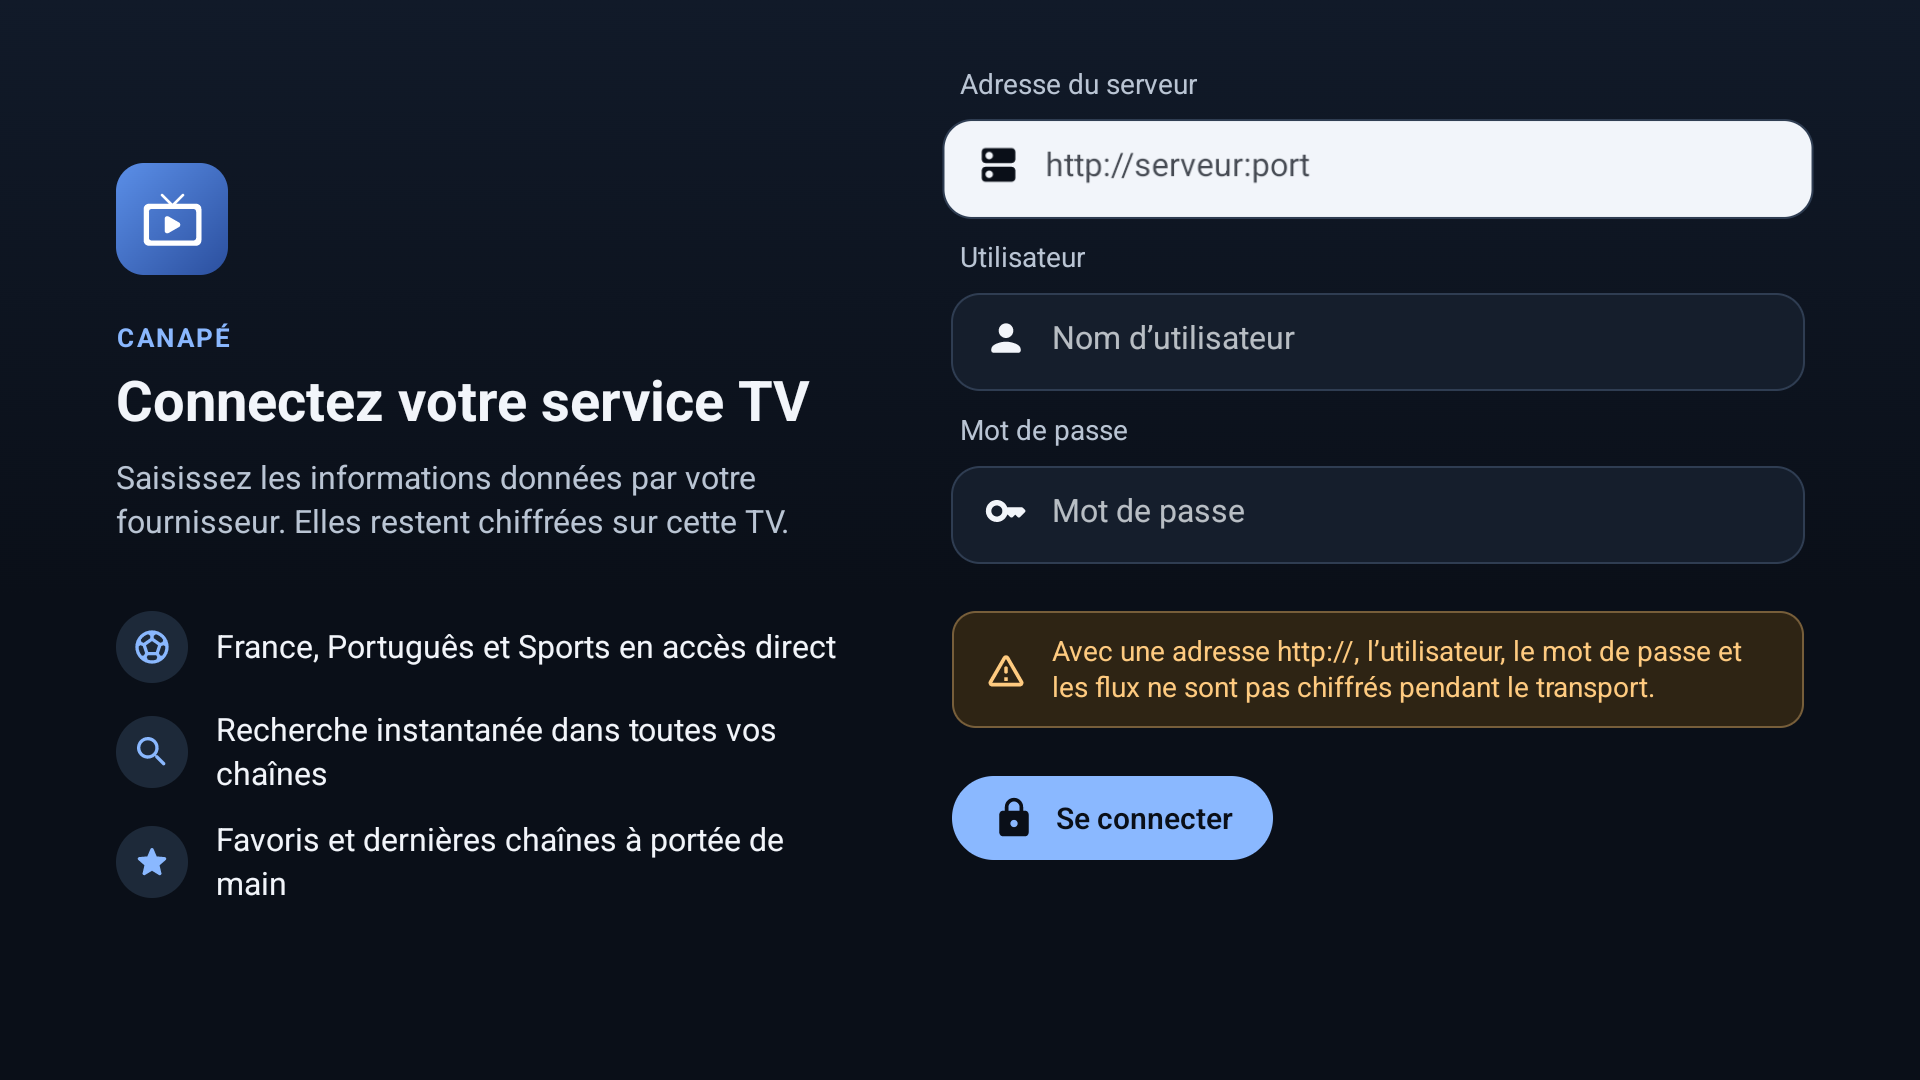
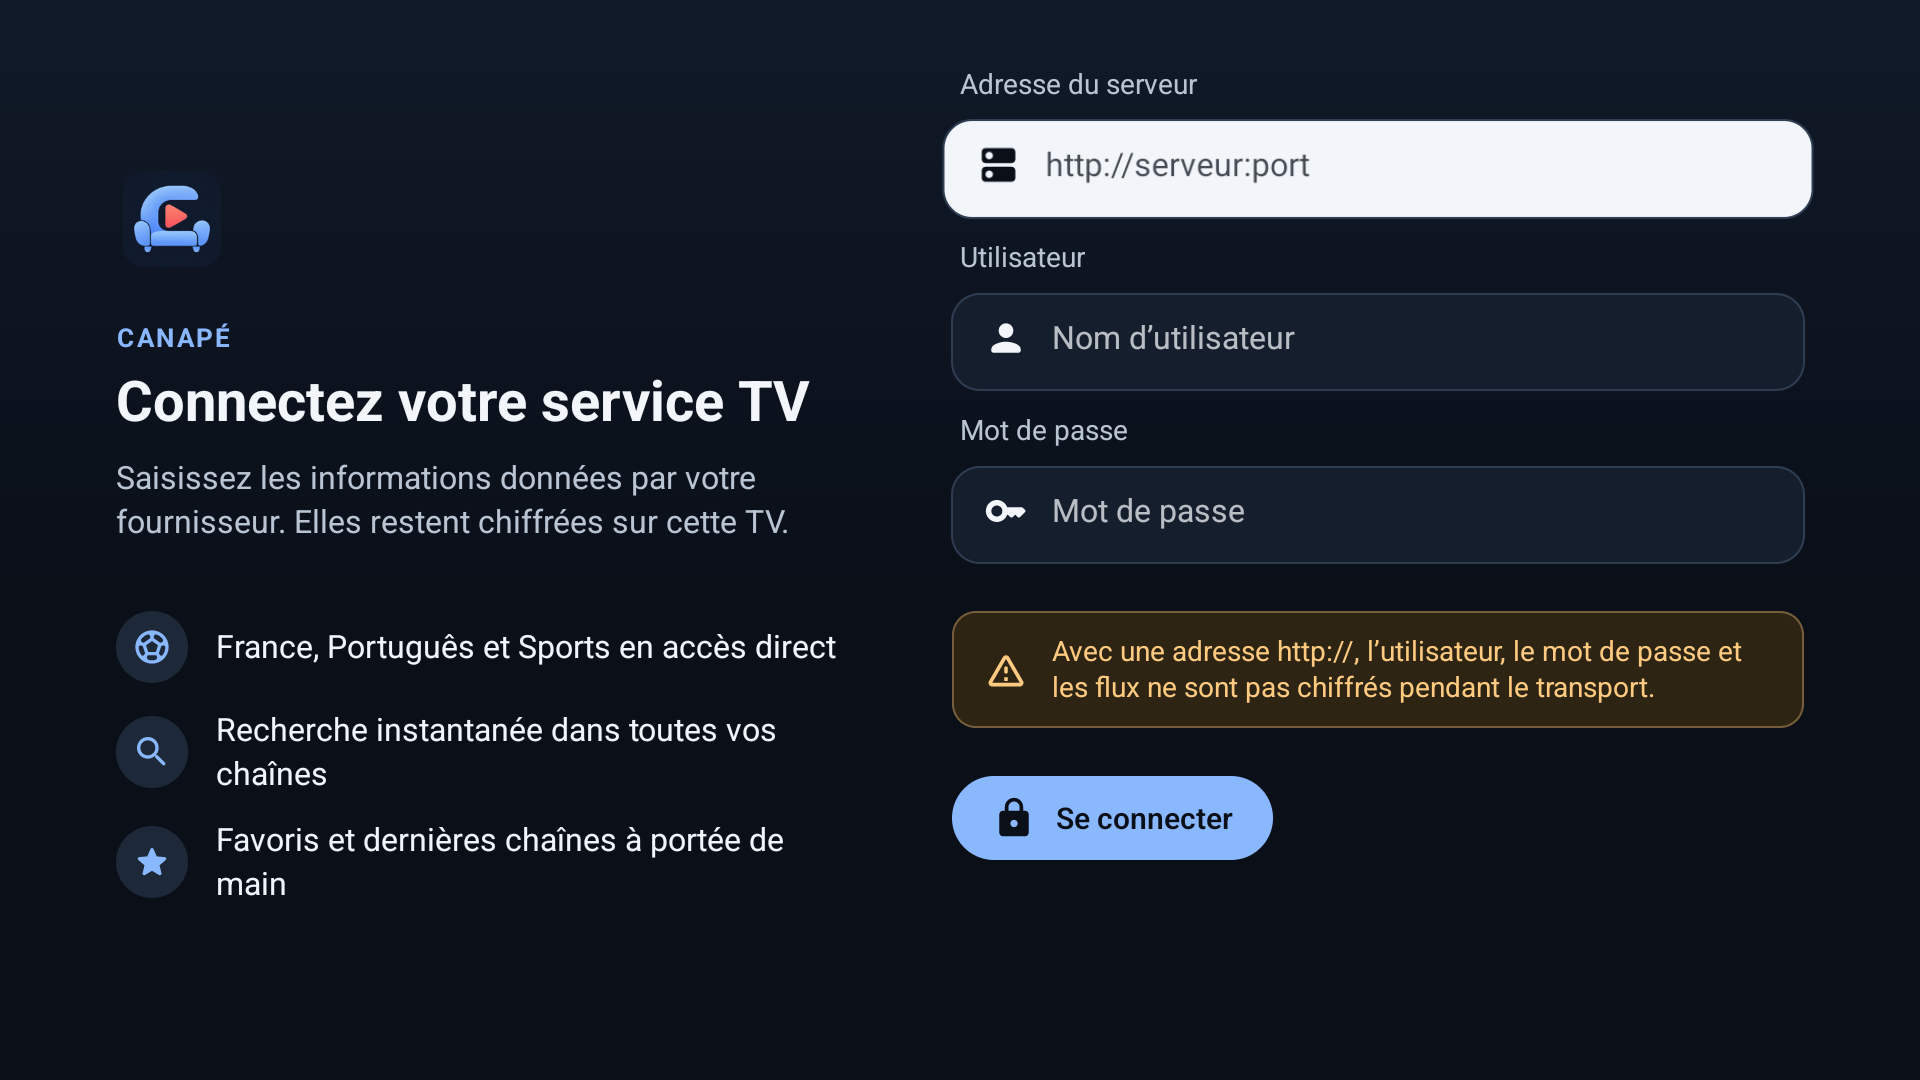
Use selected sofa artwork for Canapé app branding

Changed region(s): [[0.0625, 0.1528, 0.125, 0.275]]

diff --git a/app/src/main/java/fr/channelfinder/tv/StartupScreens.kt b/app/src/main/java/fr/channelfinder/tv/StartupScreens.kt
@@ -8,6 +8,7 @@ import androidx.compose.animation.core.infiniteRepeatable
 import androidx.compose.animation.core.rememberInfiniteTransition
 import androidx.compose.animation.core.tween
 import androidx.compose.foundation.background
+import androidx.compose.foundation.Image
 import androidx.compose.foundation.border
 import androidx.compose.foundation.rememberScrollState
 import androidx.compose.foundation.verticalScroll
@@ -35,7 +36,6 @@ import androidx.compose.material.icons.rounded.Dns
 import androidx.compose.material.icons.rounded.ErrorOutline
 import androidx.compose.material.icons.rounded.History
 import androidx.compose.material.icons.rounded.Key
-import androidx.compose.material.icons.rounded.LiveTv
 import androidx.compose.material.icons.rounded.Lock
 import androidx.compose.material.icons.rounded.ManageAccounts
 import androidx.compose.material.icons.rounded.Person
@@ -59,11 +59,11 @@ import androidx.compose.ui.draw.clip
 import androidx.compose.ui.focus.FocusRequester
 import androidx.compose.ui.focus.focusRequester
 import androidx.compose.ui.focus.onFocusChanged
-import androidx.compose.ui.graphics.Brush
 import androidx.compose.ui.graphics.Color
 import androidx.compose.ui.graphics.vector.ImageVector
 import androidx.compose.ui.layout.layout
 import androidx.compose.ui.platform.LocalContext
+import androidx.compose.ui.res.painterResource
 import androidx.compose.ui.text.input.ImeAction
 import androidx.compose.ui.text.input.KeyboardType
 import androidx.compose.ui.text.style.TextAlign
@@ -77,13 +77,11 @@ import java.util.Locale
 
 @Composable
 fun AppMark(size: androidx.compose.ui.unit.Dp = 56.dp) {
-    Box(
-        Modifier.size(size).clip(RoundedCornerShape(size / 4))
-            .background(Brush.linearGradient(listOf(Color(0xFF5B8FE8), Color(0xFF2B4F9E)))),
-        contentAlignment = Alignment.Center
-    ) {
-        Icon(Icons.Rounded.LiveTv, contentDescription = null, tint = Color.White, modifier = Modifier.size(size * 0.56f))
-    }
+    Image(
+        painter = painterResource(R.mipmap.ic_launcher),
+        contentDescription = null,
+        modifier = Modifier.size(size)
+    )
 }
 
 @Composable

diff --git a/DESIGN.md b/DESIGN.md
@@ -6,7 +6,7 @@ Preserve the compact TV appearance, safe margins, existing palette, typography a
 - Home channel cards prioritise channel name and programme, with up to two lines each, rather than repetitive category prefixes. A fixed contextual footer describes OK and long OK for the focused item. Removing a favorite or pin moves to the nearest surviving card in that row, or its recovery action/France when empty. Pinned cards use minimum heights and grow with enlarged text.
 - Guide opens on the requested channel with Toutes selected. Its header identifies the originating selection. Programme filtering preserves the active channel even when its schedule is empty or unavailable, and rows do not disappear underneath remote focus. Missing programme data never implies failed playback.
 - Chercher partout clears country and quality restrictions as well as lane/category scope, keeping the search text. The viewer sees an unambiguous all-channel scope.
-- Setup form owns vertical scrolling in its bounded pane and accommodates the IME, 130% text and inline validation errors. The HTTP warning remains in the form; focus reveals fields and the connection action. Setup identity uses Canapé.
+- Setup form owns vertical scrolling in its bounded pane and accommodates the IME, 130% text and inline validation errors. The HTTP warning remains in the form; focus reveals fields and the connection action. Setup identity uses Canapé. Setup and loading use the selected sofa/C launcher artwork through `AppMark`; the TV banner uses the same icon with a readable Canapé label.
 
 ## 1. Atmosphere & identity
 A compact French-language TV library, legible from the sofa. Navy tonal layers keep live video prominent; a light focused surface or white artwork outline identifies the remote's current target. Preserve the existing lane colors and country flags, which identify the viewer's shortcuts.

diff --git a/docs/screenshots/README.md b/docs/screenshots/README.md
@@ -10,8 +10,8 @@ These are unmodified screenshots of the running Android TV app at 1920 × 1080, 
 | `series.png` | `/private/tmp/jm-ux-series-header-down-normal.png` | Series library with title search and sorting |
 | `tv-guide.png` | `/private/tmp/jm-ux-guide-next-stable-normal.png` | Provider schedule and current-programme filter |
 | `episodes.png` | `/private/tmp/cinema-v2-episodes.png` | Season selection and saved episode progress |
-| `setup.png` | `/private/tmp/canape-setup.png` | Clean first run of the signed Canapé 0.1.1 release |
+| `setup.png` | `.omo/evidence/sofa-logo/setup.png` | Clean first run with the user-selected sofa/C app logo |
 
-Development captures may differ slightly from the current release. Browsing captures predate the rename but their visible text contains no previous app name. The setup capture shows the current Canapé identity.
+Development captures may differ slightly from the current release. Browsing captures predate the rename but their visible text contains no previous app name. The setup capture shows the current selected sofa/C identity, verified on the locally built signed APK.
 
-The README app icon in `docs/assets/app-icon.png` is copied from the app's existing `mipmap-xxxhdpi/ic_launcher.png` resource.
+The approved README masthead is `docs/assets/canape-wordmark.png`. The master app icon in `docs/assets/app-icon.png` is the user-selected sofa/C artwork; the Android launcher icons are resized copies of it. See [brand assets](../assets/README.md).

diff --git a/docs/assets/README.md b/docs/assets/README.md
@@ -1,0 +1,8 @@
+# Canapé brand assets
+
+- `app-icon.png`: original user-selected sofa/C icon with coral play triangle, supplied as `Image ChatGPT 13 oct. 2026, 17_12_30.png`. The master is unchanged, 1254 × 1254 with transparent outer corners. Android `mipmap-*/ic_launcher.png` assets are resized to 80, 120, 160, 240 and 320 pixels; `AppMark` uses the same launcher resource without a tint.
+- `canape-wordmark.png`: approved horizontal logo with the blue sofa/C emblem supplying the initial C and white `anapé` lettering. Used in the README masthead.
+
+The Android TV banner combines the selected app icon with the existing readable Canapé lettering on midnight navy. Its source is `app/src/main/res/drawable/canape_banner.xml`, with text in `canape_wordmark.xml`.
+
+Exploration files in the local `design/` directory are not required to build the app. These committed master assets and the Android resources are the production sources.

diff --git a/PRD.md b/PRD.md
@@ -2,6 +2,8 @@
 
 _Last updated: 2026-10-13 (reviewed usability)_
 
+Branding update (2026-10-13): the user-selected sofa/C icon is used in Android launcher resources, setup/loading `AppMark`, and the TV launcher banner. The README uses the approved horizontal wordmark. Signed release build and lint pass with existing warnings; setup and focused launcher screenshots are verified on the isolated Google TV emulator. This source update does not publish a new APK release.
+
 ## Product summary
 
 Canapé is a Google TV / Android TV app for finding live channels in a large user-supplied Xtream Codes playlist. It is designed for a viewer who finds typical IPTV apps difficult to navigate. The playlist currently contains 24,057 live channels, so the product prioritizes direct destinations, local search, simple favorites, and a live preview while browsing.
